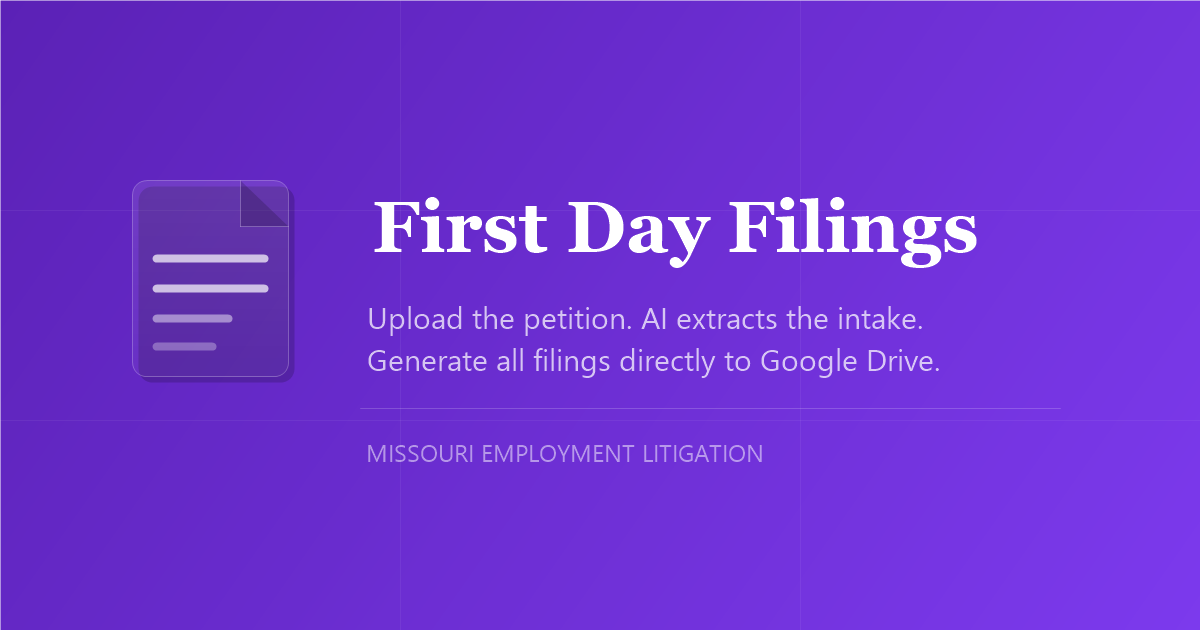
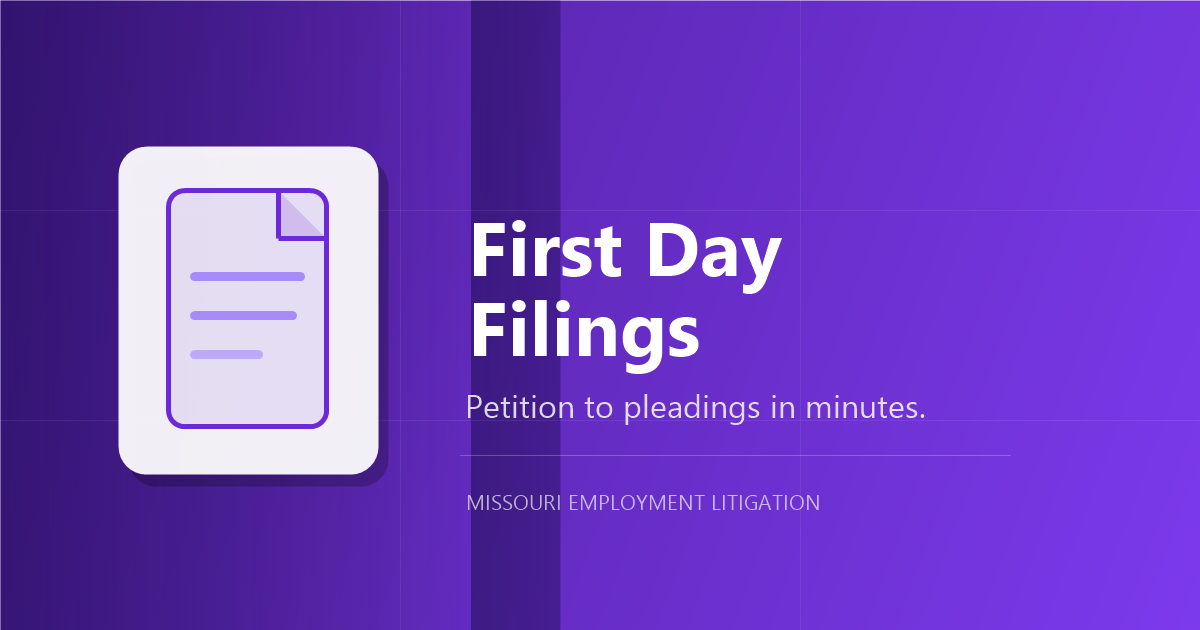
Refresh social preview design

diff --git a/public/index.html b/public/index.html
@@ -10,8 +10,8 @@
     <meta property="og:url" content="{{SITE_URL}}/" />
     <meta property="og:title" content="First Day Filings" />
     <meta property="og:description" content="Upload the petition, AI extracts the intake, generate all first-day filings directly to Google Drive." />
-    <meta property="og:image" content="{{SITE_URL}}/social-card.png?v=2" />
-    <meta property="og:image:secure_url" content="{{SITE_URL}}/social-card.png?v=2" />
+    <meta property="og:image" content="{{SITE_URL}}/social-card.png?v=3" />
+    <meta property="og:image:secure_url" content="{{SITE_URL}}/social-card.png?v=3" />
     <meta property="og:image:type" content="image/png" />
     <meta property="og:image:width" content="1200" />
     <meta property="og:image:height" content="630" />
@@ -19,7 +19,7 @@
     <meta name="twitter:card" content="summary_large_image" />
     <meta name="twitter:title" content="First Day Filings" />
     <meta name="twitter:description" content="Upload the petition, AI extracts the intake, generate all first-day filings directly to Google Drive." />
-    <meta name="twitter:image" content="{{SITE_URL}}/social-card.png?v=2" />
+    <meta name="twitter:image" content="{{SITE_URL}}/social-card.png?v=3" />
     <meta name="twitter:image:alt" content="First Day Filings document automation for Missouri employment litigation." />
     <link rel="preconnect" href="https://fonts.googleapis.com" />
     <link rel="preconnect" href="https://fonts.gstatic.com" crossorigin />
